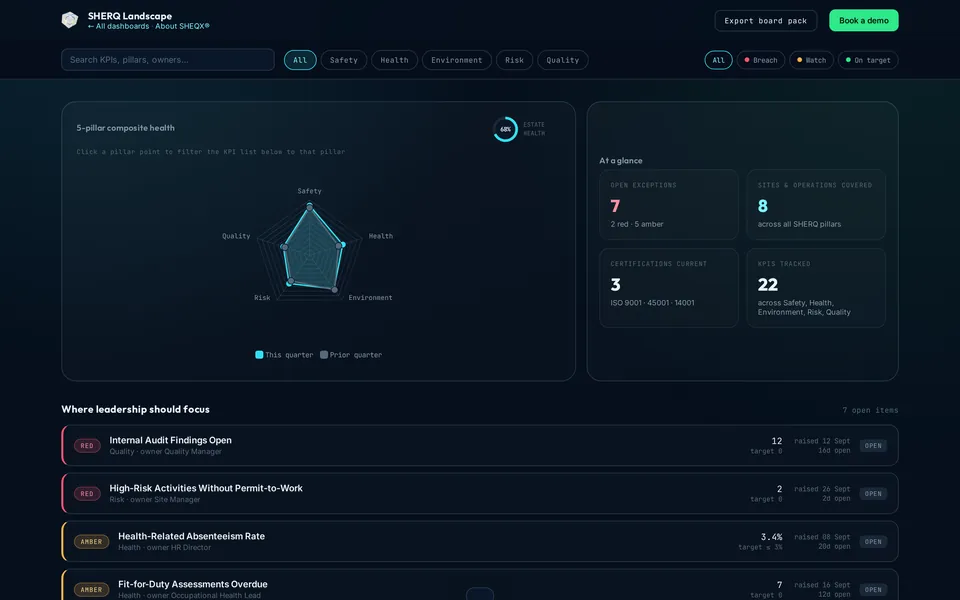
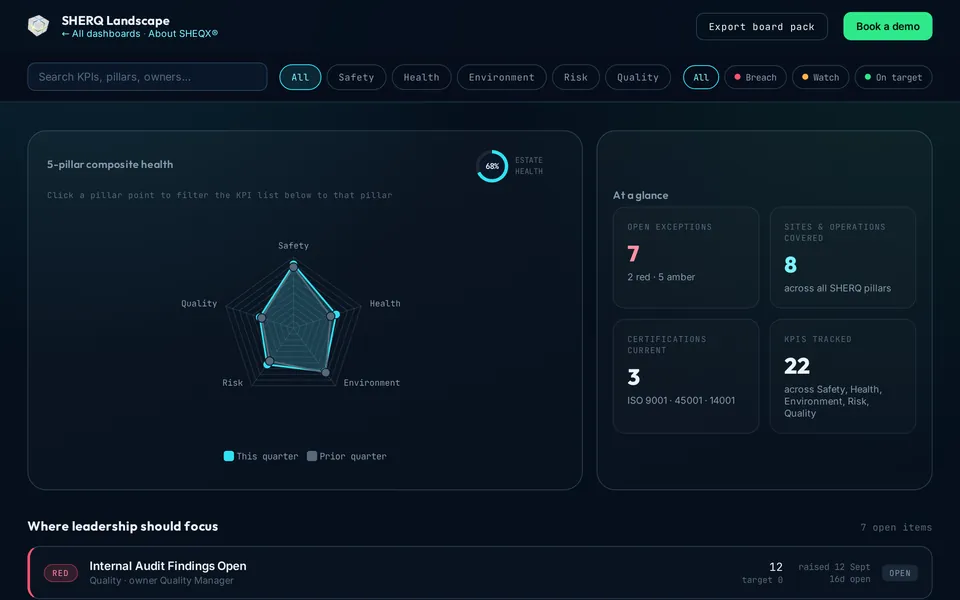
Homepage: product in the hero, clean mobile hero, measured-results band, live tour strip
- Hero: real Enterprise Risk dashboard (from the live tour) in an angled
  browser frame over a dimmed network; 'Take the live tour' CTA; fake
  'SYNCED / LIVE' telemetry replaced by real trust badges (ISO 27001:2022,
  ISO/IEC 42001 by October 2026, Microsoft Azure) linking /trust/
- Mobile hero: nothing behind the headline; network canvas hidden and not
  animated below 860px; screenshot follows the buttons
- Measured results band (30% / 70% / 70% / 40%, each from its published
  testimonial) plus three quotes; all 11 testimonials move to /customers#stories
- Four-dashboard live tour strip on the homepage
- Tour gallery polish: consistent card meta, no false sequence numbers,
  tighter thumbnails; dashboards' empty toast no longer peeks on screen

Claude-Session: https://claude.ai/code/session_01Xq9xWdg2hRtSs7KfeatiXq

diff --git a/public/tour/tour-shell.css b/public/tour/tour-shell.css
@@ -152,8 +152,8 @@ main { position:relative; z-index:2; max-width:var(--maxw); margin:0 auto; paddi
 .mtags { display:flex; gap:6px; flex-wrap:wrap; margin-top:12px; }
 .mtag { font-family:'JetBrains Mono',monospace; font-size:9.5px; background:rgba(48,226,244,0.10); color:var(--cyan-hi); padding:3px 9px; border-radius:20px; }
 
-.toast { position:fixed; bottom:24px; left:50%; transform:translateX(-50%) translateY(120%); background:var(--abyss); border:1px solid var(--line-strong); color:var(--ink); padding:12px 20px; border-radius:12px; font-size:12.5px; z-index:60; transition:transform .25s ease; box-shadow:0 12px 30px rgba(0,0,0,.4); }
-.toast.show { transform:translateX(-50%) translateY(0); }
+.toast { position:fixed; bottom:24px; left:50%; visibility:hidden; opacity:0; transform:translateX(-50%) translateY(16px); background:var(--abyss); border:1px solid var(--line-strong); color:var(--ink); padding:12px 20px; border-radius:12px; font-size:12.5px; z-index:60; transition:transform .25s ease, opacity .25s ease, visibility .25s; box-shadow:0 12px 30px rgba(0,0,0,.4); }
+.toast.show { visibility:visible; opacity:1; transform:translateX(-50%) translateY(0); }
 
 /* Extra insight section (below Leadership Focus) */
 .extra-section { margin-bottom:40px; }
